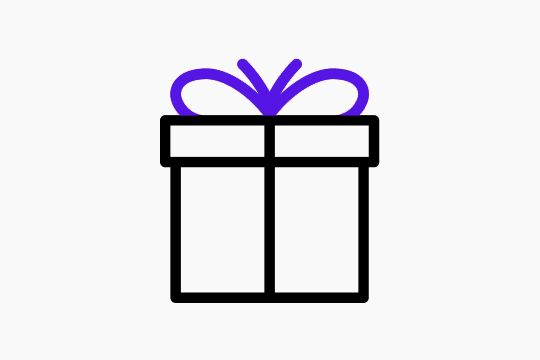
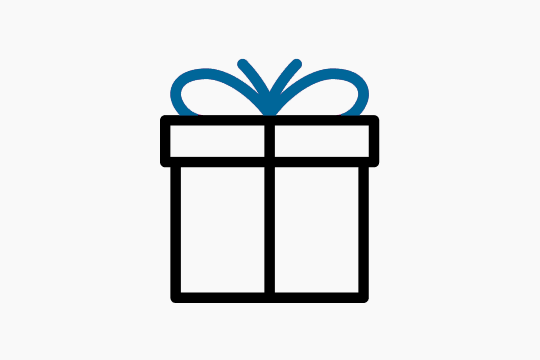
Updated new colour

Changed region(s): [[0.2963, 0.1528, 0.6815, 0.3361]]

diff --git a/app/javascript/src/stylesheets/custom/common/base.scss b/app/javascript/src/stylesheets/custom/common/base.scss
@@ -18,7 +18,7 @@ body {
   background-color: rgba($primary, 0.1) !important;
 }
 .badge-primary-lt:hover{
-  color: #5415e5;
+  color: #006699;
   background-color: rgba($primary, 0.1) !important;
 }
 .text-wrapup{
@@ -144,7 +144,7 @@ nav {
         // color: $nav-font-color;
         text-decoration: none;
         &:hover {
-          background: #5415e5;
+          background: #006699;
           // opacity: 0.7;
         }
         &:not(:only-child):after {
@@ -233,7 +233,7 @@ nav {
     border-radius: 1px;
     height: 2px;
     width: 18px;
-    background: #5415e5;
+    background: #006699;
     position: absolute;
     display: block;
     content: '';
@@ -263,7 +263,7 @@ nav {
   text-decoration: none !important;
 }
 .card-feature a:hover{
-  color: #5415e5;
+  color: #006699;
   box-shadow: 10px 24px 20px -5px rgba(31, 31, 31, 0.4);
   transition: all 0.4s ease;
 }
@@ -283,7 +283,7 @@ nav {
   padding-bottom: 30px;
 }
 .brand-icon{
-  color: #5415e5;
+  color: #006699;
   text-transform: capitalize;
 }
 .short-text-cv{
@@ -318,7 +318,7 @@ nav {
   }
 }
 .edit-btn{
-  background-color: #5415e5;
+  background-color: #006699;
   color: white;
   size: 30px;
 }
@@ -328,20 +328,20 @@ nav {
   }
 }
 .info-icon:hover{
-  color: rgba(146, 7, 109, 0.7);
+  color: rgba(0, 102, 153, 0.7);
 }
 .tooltip-inner {
   padding: 3px 8px;
   color: white;
   font-weight: bold;
-  background: rgba(146, 7, 109, 0.8);
+  background: rgba(0, 102, 153, 0.8);
   border-radius: .50rem;
 }
 .tooltip.bs-tooltip-auto[x-placement^=left] .arrow::before, .tooltip.bs-tooltip-left .arrow::before {
   right: 0;
   content: "";
   border-width: 5px 0 5px 5px;
-  border-left-color: rgba(146, 7, 109, 0.8);
+  border-left-color: rgba(0, 102, 153, 0.8);
 }
 .sort_handler:hover {
   cursor: move;
@@ -353,7 +353,7 @@ nav {
   color: black;
 }
 .show_message:hover{
-  color: #5415e5;
+  color: #006699;
   text-decoration: none;
 }
 .notification {
@@ -374,7 +374,7 @@ nav {
 }
 .box-primary {
   border: 1px solid rgba(0, 0, 0, 0.15);
-  border-top: 2px solid #5415e5;
+  border-top: 2px solid #006699;
   background-color: rgba(236, 236, 236, 0.3);
 }
 .box-header{
@@ -416,7 +416,7 @@ nav {
 }
 .custom-box {
   border: 1px solid rgba(0,0,0,.15);
-  border-top: 3px solid #5415e5;
+  border-top: 3px solid #006699;
   background-color: hsla(0,0%,92.5%,.3);
 }
 .cv-language{

diff --git a/app/javascript/src/javascripts/homepage_map.js b/app/javascript/src/javascripts/homepage_map.js
@@ -128,7 +128,7 @@ window.initIndexMap = function () {
         'circle-color': '#fff',
         'circle-radius': 4,
         'circle-stroke-width': 5,
-        'circle-stroke-color': '#5415e5'
+        'circle-stroke-color': '#006699'
       }
     });
 

diff --git a/app/javascript/src/javascripts/search_map.js b/app/javascript/src/javascripts/search_map.js
@@ -78,7 +78,7 @@ window.initSearchMap = function () {
         'circle-color': '#fff',
         'circle-radius': 4,
         'circle-stroke-width': 5,
-        'circle-stroke-color': '#5415e5'
+        'circle-stroke-color': '#006699'
       }
     });
 

diff --git a/app/javascript/src/admin/styles/custom.scss b/app/javascript/src/admin/styles/custom.scss
@@ -15,10 +15,10 @@
   margin-top: 60px !important;
 }
 .base-color {
-  color: #5415e5;
+  color: #006699;
 }
 .form-border-t {
-  border-top: 2px solid #5415e5;
+  border-top: 2px solid #006699;
 }
 #newsletter_table thead tr th {
   padding: 18px;

diff --git a/app/javascript/src/stylesheets/bootstrap/variables.scss b/app/javascript/src/stylesheets/bootstrap/variables.scss
@@ -1,5 +1,5 @@
 // Colors
-$primary: #5415e5;
+$primary: #006699;
 $theme-colors: (
     "light-1": #E8E8E8,
     "light-2": #808080,
